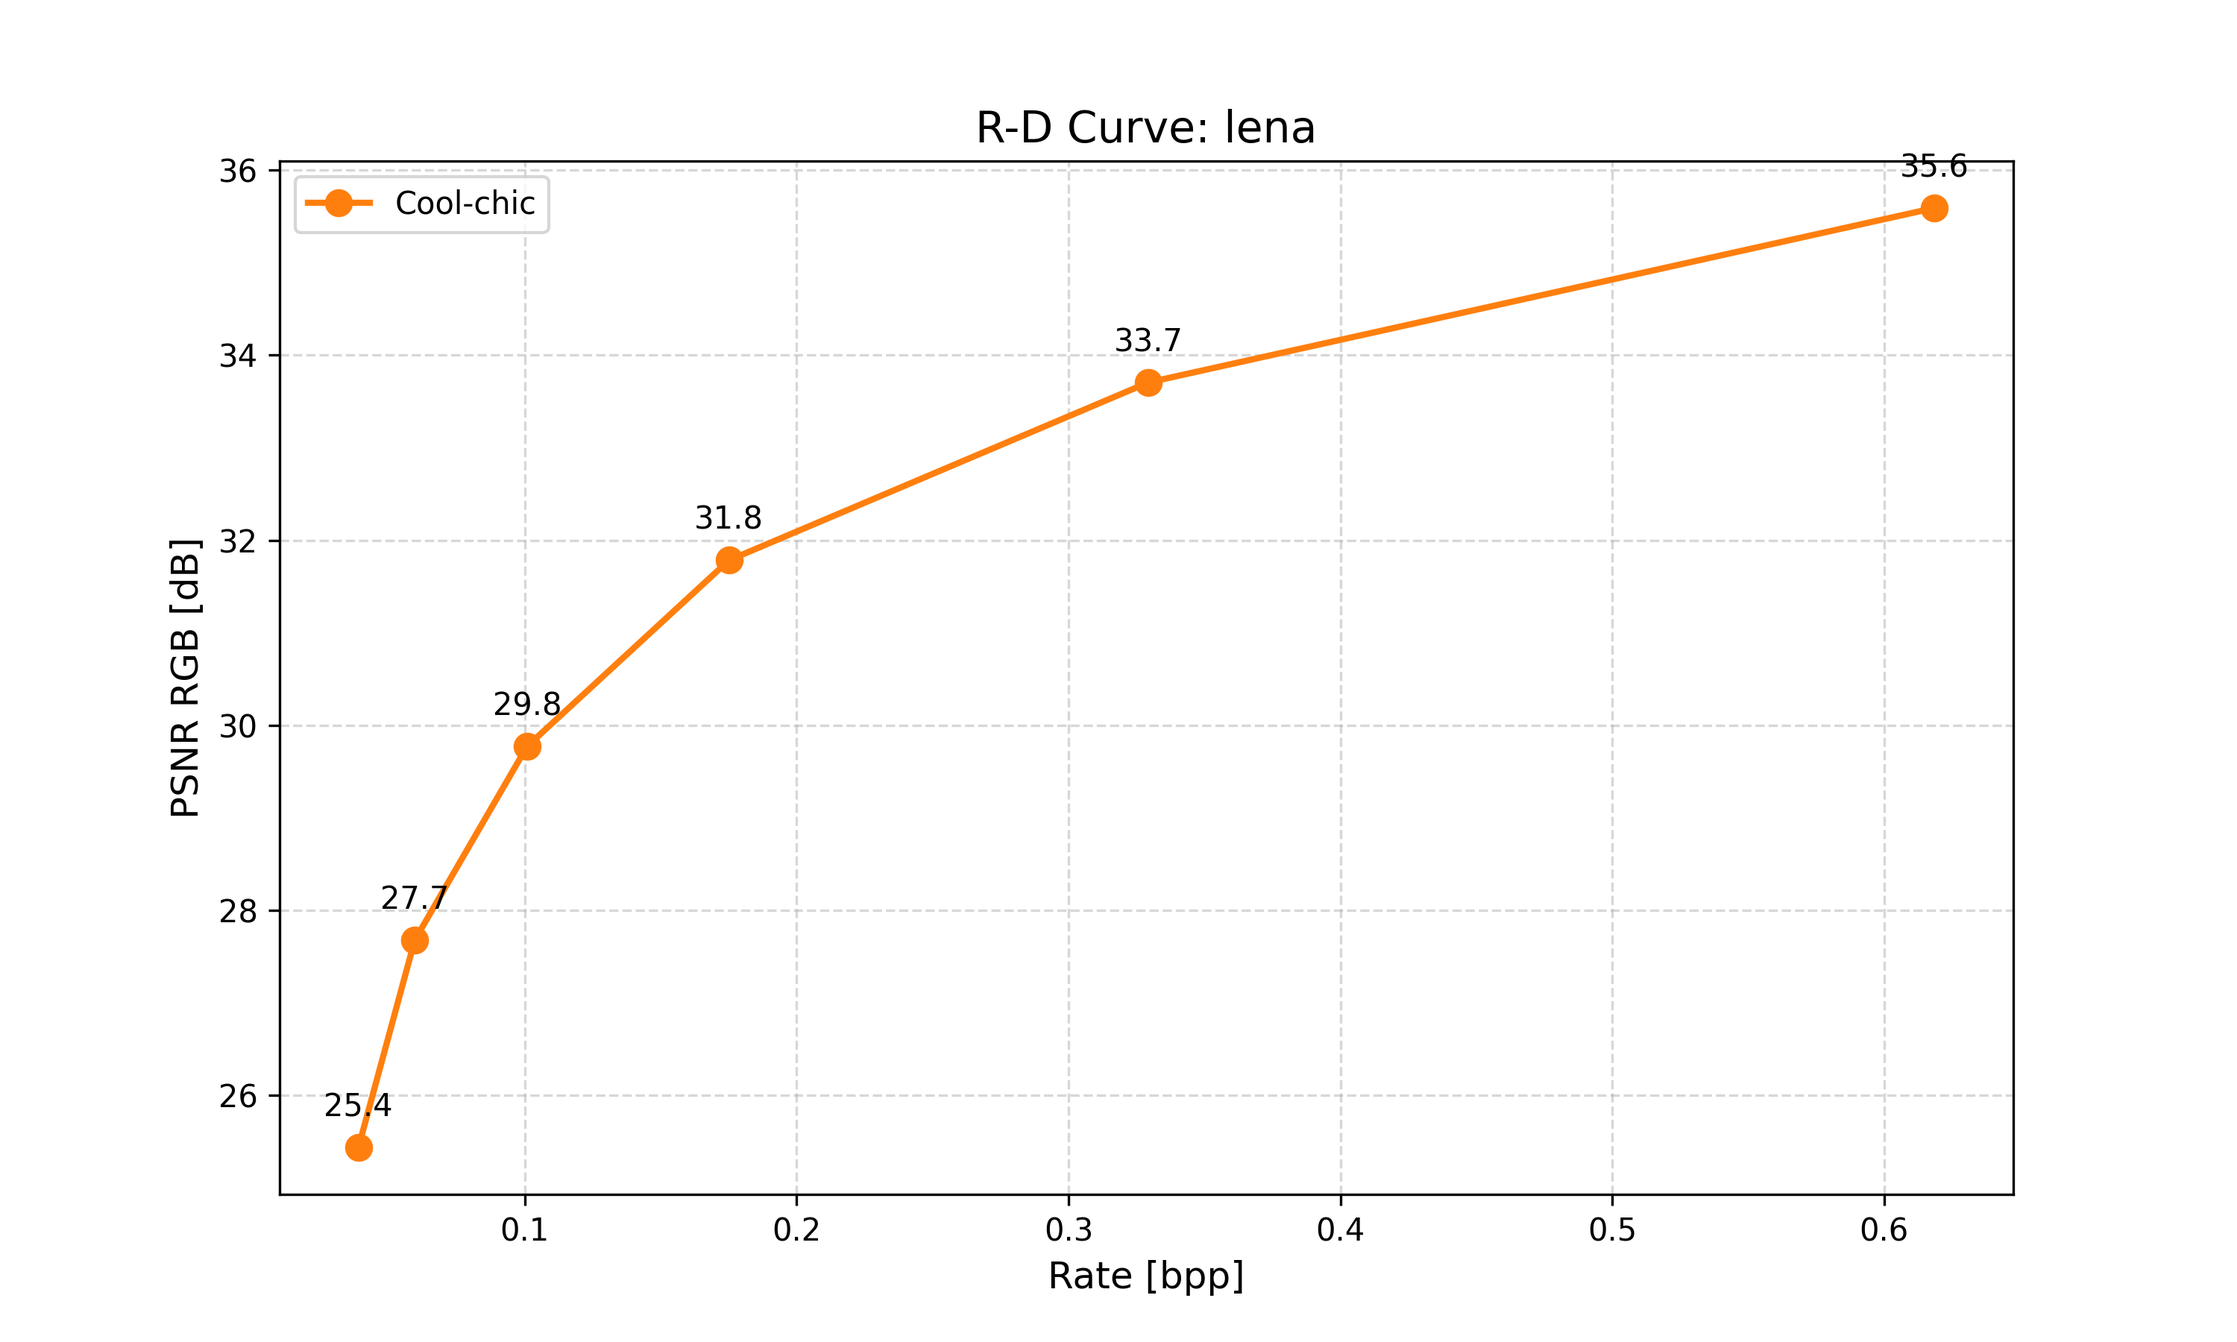
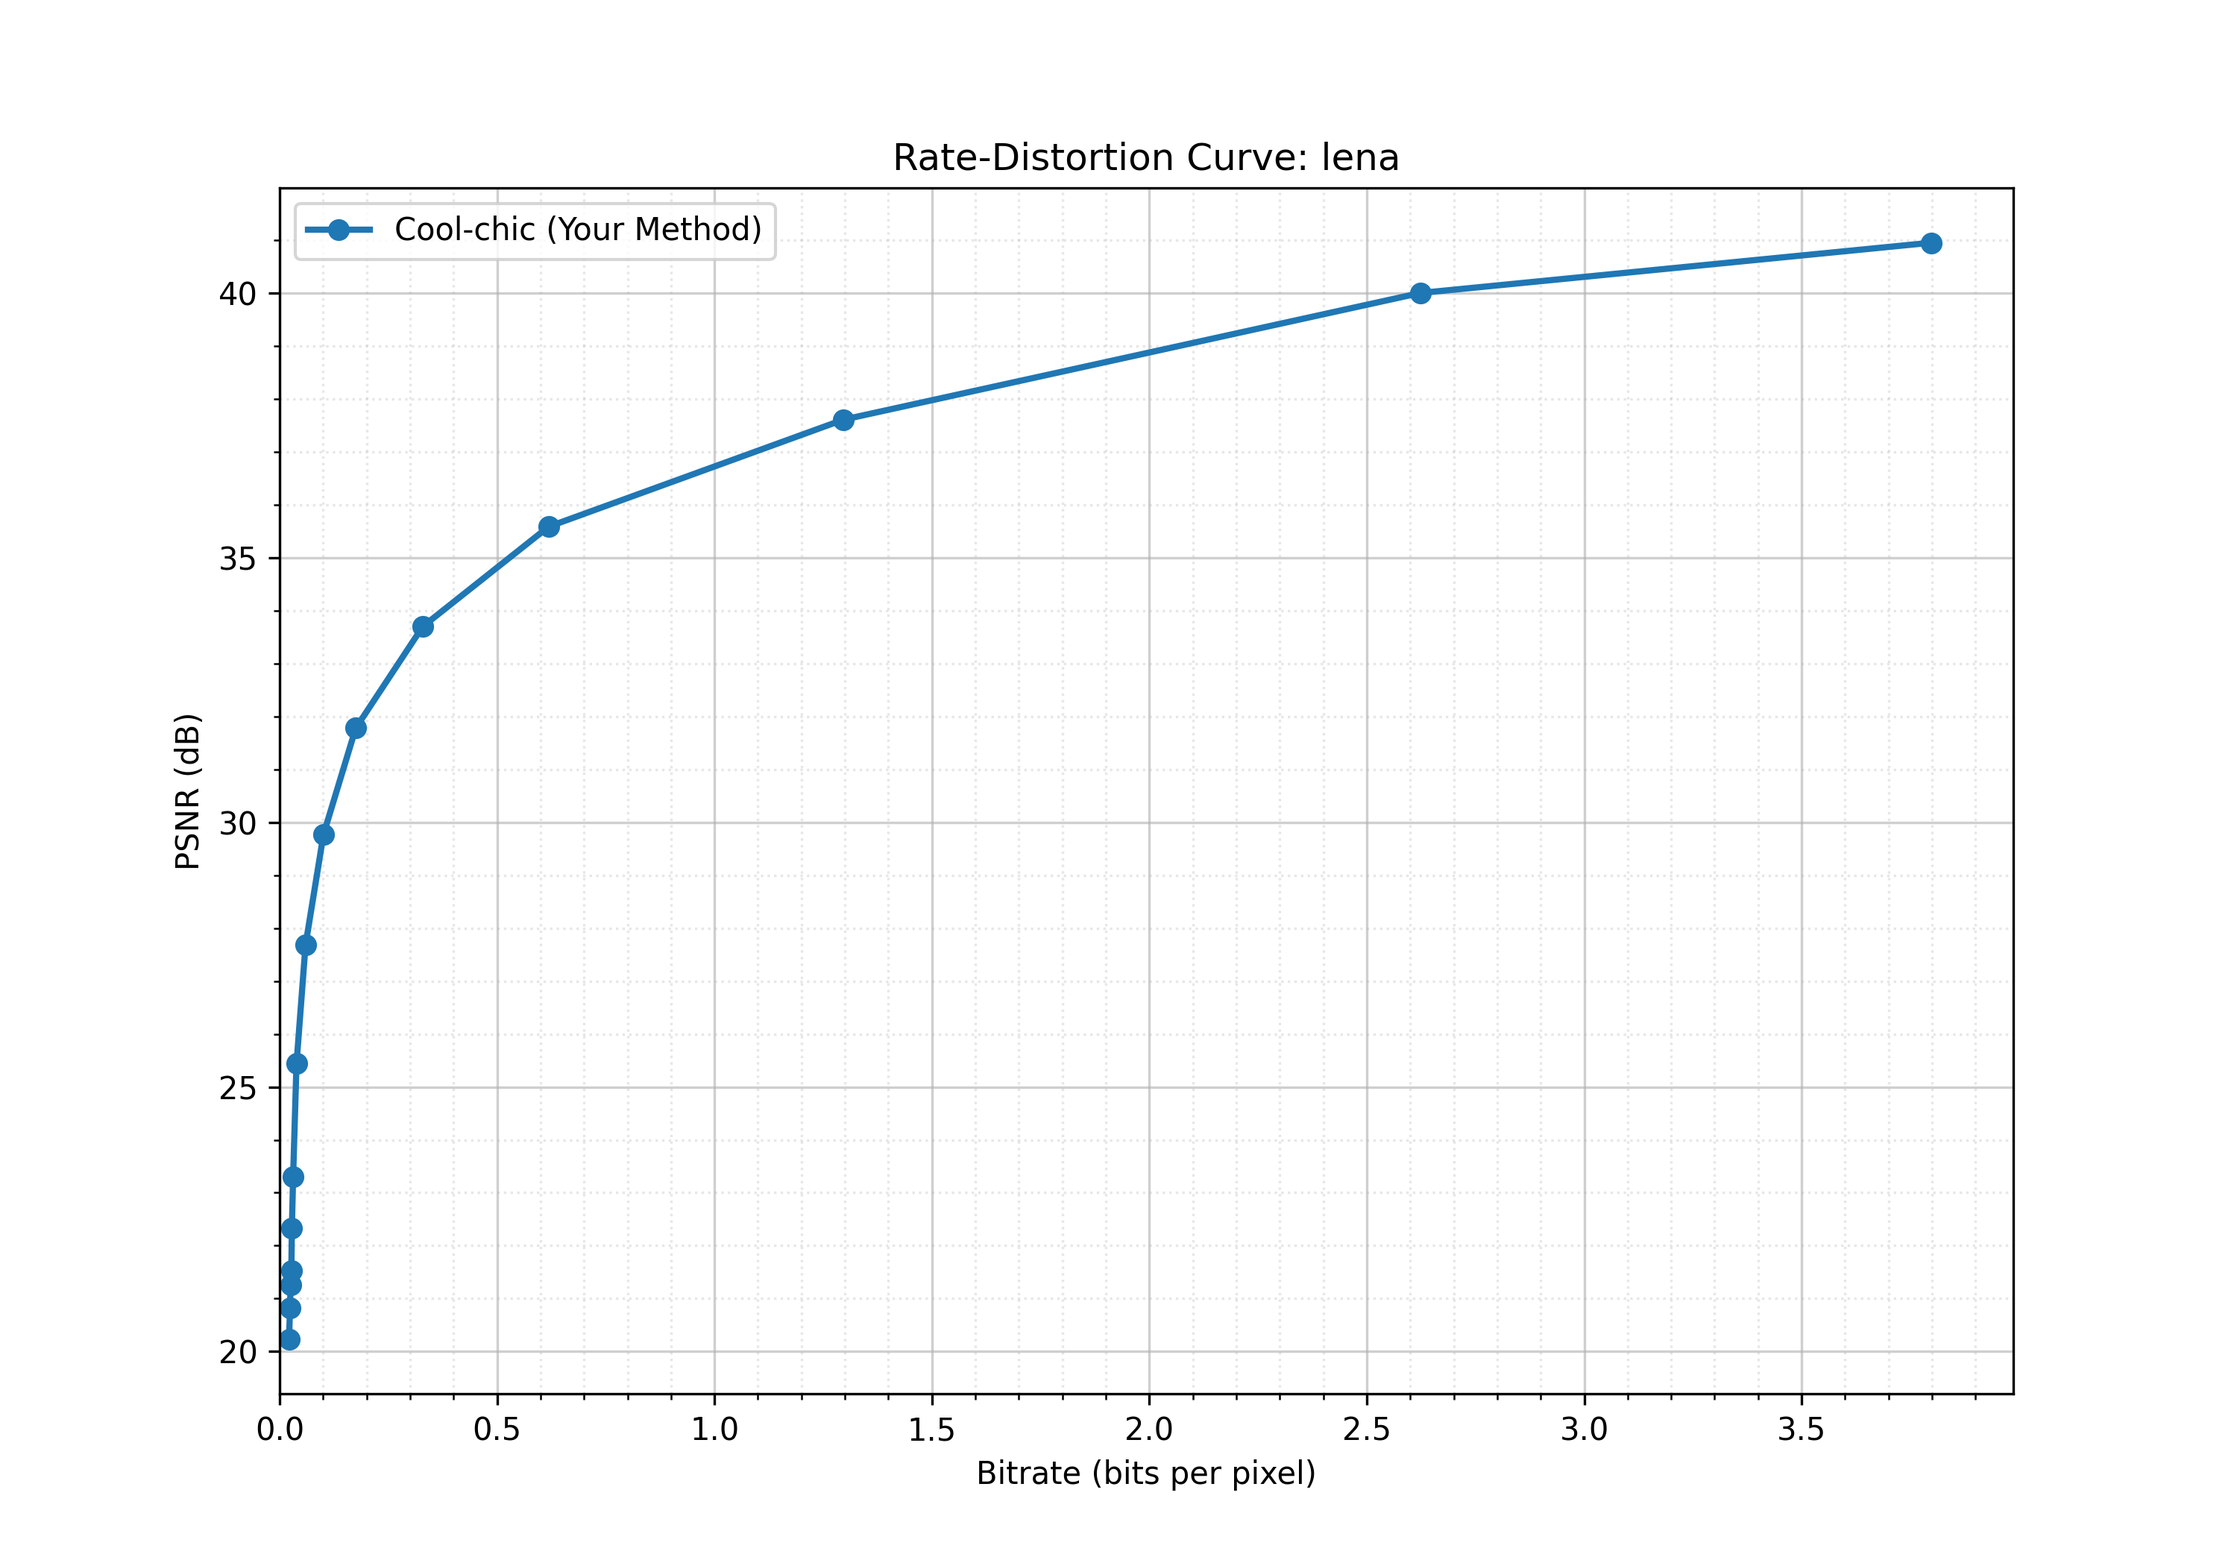
Improves RD evaluation with baseline benchmarking
Adds baseline benchmarking and plotting for JPEG/WebP to enable fair RD curve comparison against Cool-chic.

Introduces scripts for automated evaluation and visual comparison, enhances plotting flexibility, and expands the RD batch range for more robust analysis.

Helps clarify the strengths and limitations of neural codecs relative to standard approaches.

diff --git a/my_tools/plot_rd.py b/my_tools/plot_rd.py
@@ -1,63 +1,167 @@
+import matplotlib.pyplot as plt
 import csv
 import os
 import sys
+import argparse
 
-import matplotlib.pyplot as plt
 
-
-def plot_rd_curve(csv_file, title="RD_Curve"):
+def read_csv_data(filepath):
+    """讀取 CSV 並回傳 (BPP, PSNR) 的排序列表"""
     bpps = []
     psnrs = []
 
-    print(f"Reading data from {csv_file}...")
+    if not os.path.exists(filepath):
+        # 只有在真的試圖讀取時才報錯，這裡如果是被 disable 的話根本不會進來
+        # 但為了保持函式單純，這裡還是留著檢查
+        return [], []
+
     try:
-        with open(csv_file, "r") as f:
+        with open(filepath, "r") as f:
             reader = csv.DictReader(f)
             for row in reader:
                 try:
-                    bpps.append(float(row["BPP"]))
-                    psnrs.append(float(row["PSNR"]))
+                    b = float(row["BPP"])
+                    p = float(row["PSNR"])
+                    bpps.append(b)
+                    psnrs.append(p)
                 except ValueError:
-                    continue  # 跳過壞掉的數據
-    except FileNotFoundError:
-        print(f"Error: 找不到 {csv_file}")
+                    continue
+    except Exception as e:
+        print(f"❌ Error reading {filepath}: {e}")
+        return [], []
+
+    # 根據 BPP 排序，這樣畫出來的線才不會亂跑
+    data = sorted(zip(bpps, psnrs))
+    if not data:
+        return [], []
+
+    return [x[0] for x in data], [x[1] for x in data]
+
+
+def print_stats(name, bpps, psnrs):
+    """在終端機印出數據範圍，方便比較"""
+    if not bpps:
         return
-
-    # 排序
-    sorted_pairs = sorted(zip(bpps, psnrs))
-    if not sorted_pairs:
-        print("Error: CSV 中沒有有效數據")
-        return
-
-    bpps = [x[0] for x in sorted_pairs]
-    psnrs = [x[1] for x in sorted_pairs]
-
-    # 繪圖
-    plt.figure(figsize=(10, 6))
-    plt.grid(True, which="both", linestyle="--", alpha=0.5)
-    plt.plot(
-        bpps, psnrs, "o-", linewidth=2, markersize=8, label="Cool-chic", color="#ff7f0e"
+    print(
+        f"   🔹 {name:<25} | BPP: {min(bpps):.4f} - {max(bpps):.4f} | PSNR: {min(psnrs):.2f} - {max(psnrs):.2f}"
     )
 
-    # 標示 Lambda 點 (選擇性)
-    for b, p in zip(bpps, psnrs):
-        plt.annotate(
-            f"{p:.1f}", (b, p), textcoords="offset points", xytext=(0, 10), ha="center"
-        )
 
-    plt.xlabel("Rate [bpp]", fontsize=12)
-    plt.ylabel("PSNR RGB [dB]", fontsize=12)
-    plt.title(f"R-D Curve: {title}", fontsize=14)
+def plot_rd_curves(coolchic_csv_path, use_log_scale=False, show_baselines=True):
+    # 推斷目錄路徑與圖片名稱
+    target_dir = os.path.dirname(coolchic_csv_path)
+    img_name = os.path.basename(target_dir)
+
+    print(f"📊 Plotting R-D Curve for: {img_name}")
+    print(f"📂 Looking for data in: {target_dir}")
+    print("-" * 60)
+    print(f"   {'Method':<25} | {'BPP Range':<20} | {'PSNR Range'}")
+    print("-" * 60)
+
+    # 定義檔案路徑
+    jpeg_csv = os.path.join(target_dir, f"{img_name}_jpeg.csv")
+    webp_csv = os.path.join(target_dir, f"{img_name}_webp.csv")
+
+    # 設定畫布
+    plt.figure(figsize=(10, 7))
+
+    # 1. 繪製 Cool-chic
+    cc_bpp, cc_psnr = read_csv_data(coolchic_csv_path)
+    if cc_bpp:
+        plt.plot(
+            cc_bpp,
+            cc_psnr,
+            marker="o",
+            linestyle="-",
+            linewidth=2,
+            color="#1f77b4",
+            label="Cool-chic (Your Method)",
+        )
+        print_stats("Cool-chic", cc_bpp, cc_psnr)
+
+    # 只有在 show_baselines 為 True 時才嘗試讀取與繪製基準線
+    if show_baselines:
+        # 2. 繪製 JPEG
+        # 先檢查檔案是否存在，避免 read_csv_data 印出檔案找不到的警告 (如果使用者根本沒跑 benchmark)
+        if os.path.exists(jpeg_csv):
+            j_bpp, j_psnr = read_csv_data(jpeg_csv)
+            if j_bpp:
+                plt.plot(
+                    j_bpp,
+                    j_psnr,
+                    marker="x",
+                    linestyle="--",
+                    linewidth=1.5,
+                    color="#ff7f0e",
+                    label="JPEG (Baseline)",
+                )
+                print_stats("JPEG", j_bpp, j_psnr)
+        
+        # 3. 繪製 WebP
+        if os.path.exists(webp_csv):
+            w_bpp, w_psnr = read_csv_data(webp_csv)
+            if w_bpp:
+                plt.plot(
+                    w_bpp,
+                    w_psnr,
+                    marker="^",
+                    linestyle=":",
+                    linewidth=1.5,
+                    color="#2ca02c",
+                    label="WebP (Baseline)",
+                )
+                print_stats("WebP", w_bpp, w_psnr)
+    else:
+        print("   ℹ  Skipping baselines (JPEG/WebP) as requested.")
+
+    print("-" * 60)
+
+    # 設定圖表裝飾
+    plt.title(f"Rate-Distortion Curve: {img_name}")
+    plt.xlabel("Bitrate (bits per pixel)")
+    plt.ylabel("PSNR (dB)")
+
+    # 開啟次要網格，方便觀察
+    plt.minorticks_on()
+    plt.grid(True, which="major", linestyle="-", alpha=0.6)
+    plt.grid(True, which="minor", linestyle=":", alpha=0.3)
+
     plt.legend()
 
-    # 存檔 (存成跟 csv 同名的 png)
-    output_png = csv_file.replace(".csv", ".png")
+    # 如果使用者要求 Log Scale，或數據真的太偏左，可以用 log
+    if use_log_scale:
+        plt.xscale("log")
+        plt.xlabel("Bitrate (bits per pixel) - Log Scale")
+    else:
+        plt.xlim(left=0)
+
+    # 儲存圖片
+    # 根據是否顯示基準線來決定檔名
+    filename = "rd_curve_comparison.png" if show_baselines else "rd_curve.png"
+    output_png = os.path.join(target_dir, filename)
+    
     plt.savefig(output_png, dpi=300)
-    print(f"✅ R-D Curve 圖表已儲存為: {output_png}")
+    print(f"✅ Plot saved to: {output_png}")
 
 
 if __name__ == "__main__":
-    if len(sys.argv) > 1:
-        plot_rd_curve(sys.argv[1], sys.argv[2] if len(sys.argv) > 2 else "RD_Curve")
-    else:
-        print("Usage: python plot_rd.py <csv_file>")
+    parser = argparse.ArgumentParser(
+        description="Plot R-D curves comparing Cool-chic, JPEG, and WebP."
+    )
+    parser.add_argument("csv_path", help="Path to the Cool-chic rd_curve.csv")
+    parser.add_argument(
+        "--log",
+        action="store_true",
+        help="Use log scale for X-axis (useful for low BPP)",
+    )
+    # 新增參數：只畫 Cool-chic，不畫其他比較
+    parser.add_argument(
+        "--only-coolchic",
+        action="store_true",
+        help="Plot only the Cool-chic curve, ignoring JPEG/WebP baselines",
+    )
+
+    args = parser.parse_args()
+
+    # 將參數傳入函式，show_baselines 邏輯為：如果沒有指定 only-coolchic，則預設為 True
+    plot_rd_curves(args.csv_path, args.log, show_baselines=not args.only_coolchic)

diff --git a/my_tools/benchmark_baseline.py b/my_tools/benchmark_baseline.py
@@ -1,0 +1,85 @@
+# python tools/benchmark_baseline.py lena.png --out results/my_experiments/lena
+import argparse
+import os
+import csv
+import math
+import numpy as np
+from PIL import Image
+import io
+
+def calculate_psnr(img1, img2):
+    # 確保兩張圖尺寸一致
+    if img1.size != img2.size:
+        return 0
+    
+    mse = np.mean((np.array(img1) - np.array(img2)) ** 2)
+    if mse == 0:
+        return 100
+    pixel_max = 255.0
+    return 20 * math.log10(pixel_max / math.sqrt(mse))
+
+def calculate_bpp(file_size_bytes, width, height):
+    return (file_size_bytes * 8) / (width * height)
+
+def run_benchmark(image_path, output_dir):
+    img_name = os.path.splitext(os.path.basename(image_path))[0]
+    img = Image.open(image_path).convert('RGB')
+    w, h = img.size
+    
+    # 建立輸出目錄
+    os.makedirs(output_dir, exist_ok=True)
+    
+    # === 1. JPEG Benchmark ===
+    jpeg_csv = os.path.join(output_dir, f"{img_name}_jpeg.csv")
+    print(f"Testing JPEG for {img_name}...")
+    
+    with open(jpeg_csv, 'w', newline='') as f:
+        writer = csv.writer(f)
+        writer.writerow(["Quality", "BPP", "PSNR"])
+        
+        # 測試 JPEG 品質 10 到 95
+        for q in [10, 20, 30, 40, 50, 60, 70, 80, 90, 95]:
+            buffer = io.BytesIO()
+            img.save(buffer, format="JPEG", quality=q)
+            size = buffer.tell()
+            
+            # 解碼計算 PSNR
+            buffer.seek(0)
+            decoded = Image.open(buffer)
+            
+            bpp = calculate_bpp(size, w, h)
+            psnr = calculate_psnr(img, decoded)
+            writer.writerow([q, bpp, psnr])
+            
+    print(f"Saved JPEG results to {jpeg_csv}")
+
+    # === 2. WebP Benchmark ===
+    webp_csv = os.path.join(output_dir, f"{img_name}_webp.csv")
+    print(f"Testing WebP for {img_name}...")
+    
+    with open(webp_csv, 'w', newline='') as f:
+        writer = csv.writer(f)
+        writer.writerow(["Quality", "BPP", "PSNR"])
+        
+        # 測試 WebP 品質 10 到 95
+        for q in [10, 20, 30, 40, 50, 60, 70, 80, 90, 95]:
+            buffer = io.BytesIO()
+            img.save(buffer, format="WEBP", quality=q)
+            size = buffer.tell()
+            
+            buffer.seek(0)
+            decoded = Image.open(buffer)
+            
+            bpp = calculate_bpp(size, w, h)
+            psnr = calculate_psnr(img, decoded)
+            writer.writerow([q, bpp, psnr])
+
+    print(f"Saved WebP results to {webp_csv}")
+
+if __name__ == "__main__":
+    parser = argparse.ArgumentParser()
+    parser.add_argument("image", help="Path to input image (png)")
+    parser.add_argument("--out", default="results/baselines", help="Output directory")
+    args = parser.parse_args()
+    
+    run_benchmark(args.image, args.out)

diff --git a/improve.md b/improve.md
@@ -1,0 +1,87 @@
+這是一個非常好的專題方向。你的教授要求的 "Implement/improve/evaluate recent image compression methods" 完全符合你現在正在使用的 Cool-chic。
+
+為什麼 Cool-chic 是一個完美的選擇？
+
+Recent (近五年): Cool-chic 是非常新的技術（主要論文發表於 2023-2024，README 甚至提到了 2024 年底的 Wasserstein 論文），完全符合時效性。
+
+Implement (實作): 你已經把環境架起來了，這部分已經完成了 80%。
+
+Evaluate (評估): 它自帶 Evaluation code，你需要做的只是跟其他算法比較。
+
+Improve (改進): 這是專題的核心。因為 Cool-chic 是 "Overfitted"（對單張圖過擬合）的架構，有很多參數可以調整來換取「速度 vs 畫質」的權衡。
+
+以下我為你規劃一個具體的執行計畫，幫助你滿足教授的三點要求：
+
+第一階段：Evaluate (建立基準線)
+
+你不能只跑 Cool-chic，你必須證明它好（或不好）。你需要跟傳統算法（JPEG, WebP, BPG）比較。
+
+我為你準備了一個 基準線比較腳本 (tools/benchmark_baseline.py)。這個腳本會自動計算同一張圖片在不同壓縮品質下的 JPEG 和 WebP 的 BPP 與 PSNR，產生的 CSV 格式跟你的 rd_curve.csv 一樣，方便你畫在同一張圖上。
+Standard Codecs Benchmark
+12月7日 下午5:15
+
+如何執行 Evaluation:
+
+跑一次你的 Cool-chic batch: ./run_coolchic.sh lena --batch
+
+跑一次基準線: python tools/benchmark_baseline.py lena.png --out results/my_experiments/lena
+
+現在你的資料夾裡會有 Cool-chic, JPEG, WebP 的數據，你可以修改 plot_rd.py 把這三條線畫在一起。這就是標準的學術 Evaluation。
+
+第二階段：Improve (提出改進方案)
+
+這部分是拿分的關鍵。既然你是用現成的 Code，"改進" 可以透過 Ablation Study (消融實驗) 或 Hyperparameter Tuning (超參數調整) 來達成。
+
+你可以嘗試以下三個方向之一（選一個即可）：
+
+方向 A：追求編碼速度 (Speed Improvement)
+
+Cool-chic 最大的缺點是編碼很慢（因為要訓練）。你可以嘗試修改設定檔 cfg/enc/intra/fast_10k.cfg 來尋找「速度」與「畫質」的平衡點。
+
+實驗： 減少 n_itr (迭代次數)。預設可能是 10000 次，試試看改成 5000 次或 2000 次，看 PSNR 掉多少？如果時間少一半，PSNR 只掉 0.1dB，那就是成功的改進（Trade-off）。
+
+修改方式： 複製 fast_10k.cfg 為 fast_5k.cfg，修改裡面的 n_itr。
+
+方向 B：追求更高壓縮率 (Model Complexity)
+
+Cool-chic 的核心是 MLP (多層感知機)。你可以試著改變網路的大小。
+
+實驗： 修改設定檔中的 layers 或 arm_size。
+
+預設可能是 [24, 24] (兩層隱藏層，每層 24 個神經元)。
+
+試試看更小的網路 [16, 16] (檔案會變小，解碼變快，但畫質可能變差)。
+
+試試看更大的網路 [32, 32, 32]。
+
+方向 C：使用最新的 Wasserstein Loss (論文提到的新東西)
+
+你的 README 提到 4.2.0 版支援 --tune=wasserstein。
+
+實驗： 比較原本的 MSE loss 和新的 Wasserstein loss。
+
+修改方式： 修改 run_coolchic.sh，在 encode.py 的參數中加入一個變數來控制是否開啟 --tune=wasserstein。
+
+第三階段：專題報告撰寫結構
+
+當你做完上述實驗，你的報告結構應該如下：
+
+Introduction: 介紹 Image Compression 和 Cool-chic (Overfitted neural network) 的原理。
+
+Implementation: 描述你如何架設 Cool-chic 環境 (Hardware, Software stack)。
+
+Proposed Improvement / Experiment: 描述你做了什麼改動 (例如：為了加速，我調整了 Learning Rate Scheduler 或迭代次數)。
+
+Evaluation Results:
+
+放一張 R-D Curve 圖：X軸是 BPP (Bitrate)，Y軸是 PSNR (Quality)。
+
+圖上要有：Cool-chic (Default), Cool-chic (Modified), JPEG, WebP。
+
+分析：在同樣的 BPP 下，Cool-chic 比 JPEG 高了多少 dB？你的改進版比原版快了多少？
+
+Conclusion: 總結 Neural Codec 的潛力與限制 (雖然畫質好，但編碼時間長)。
+
+建議的下一步
+
+先執行我給你的 benchmark_baseline.py，把 JPEG/WebP 的數據跑出來。有了對照組，你做任何 Cool-chic 的實驗都會更有說服力。
